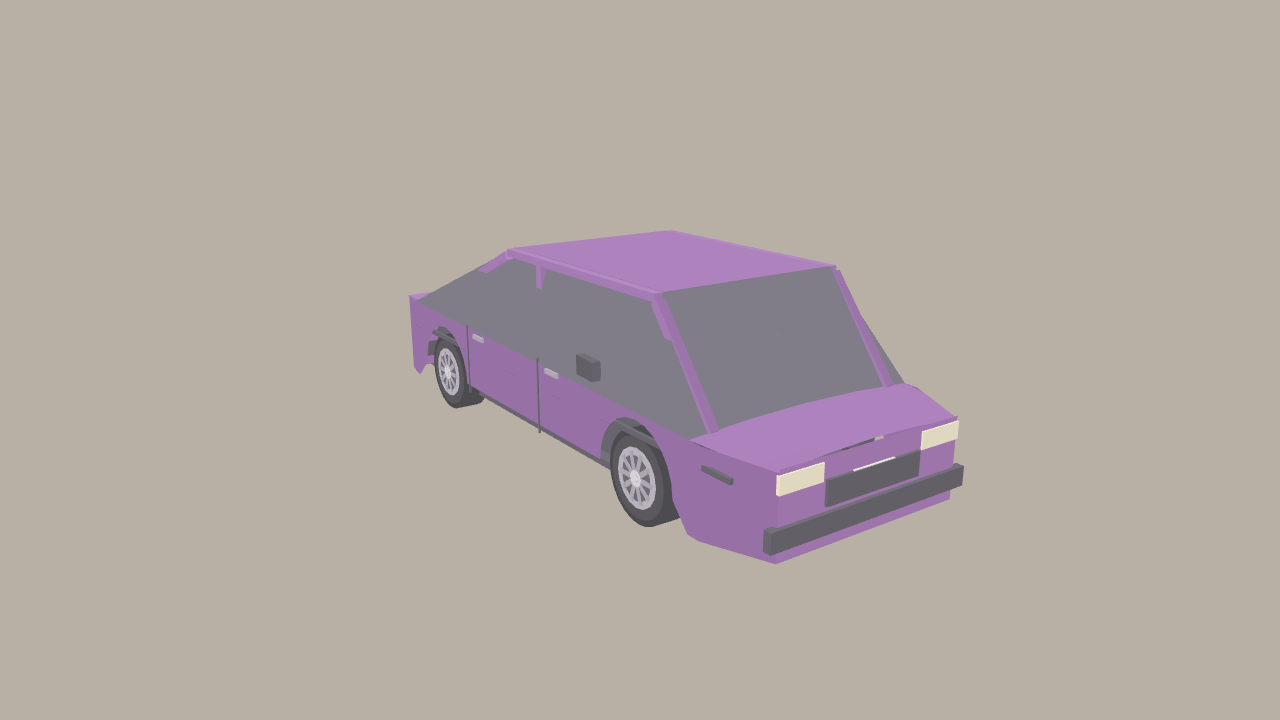
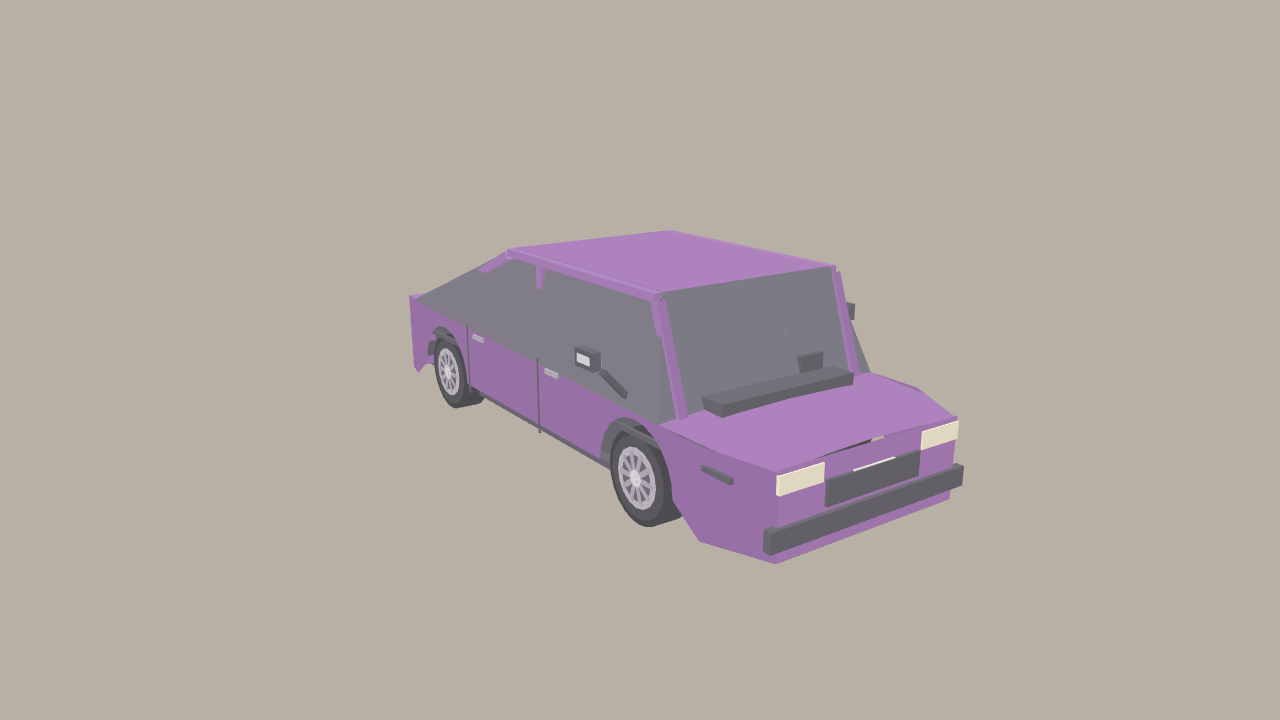
docs: record reference-aligned vehicle redesign

Changed region(s): [[0.4375, 0.3972, 0.7188, 0.6111]]

diff --git a/docs/update-12-car-3d-asset-redesign.md b/docs/update-12-car-3d-asset-redesign.md
@@ -6,47 +6,51 @@
 
 ## Summary
 
-Redesigned the Sedan and CUV exterior proportions and cockpit artwork in the
-deterministic vehicle asset generator. Post-implementation review corrections
-also close rear-side shell and glazing gaps, make the side-mirror displays face
-the driver, raise the rearview display, and separate the cockpit dials and
-indicator lamps. The simulator's body dimensions, colliders, camera anchors,
-and runtime behavior remain unchanged.
+Realigned the Sedan and CUV models to the Issue #12 reference boards in the
+deterministic vehicle asset generator. The follow-up corrects the criticized
+short Sedan hood and oversized greenhouse, redesigns visible mirror hardware
+instead of enlarging the windows, and reduces the cockpit panel so the wheel
+ring remains clear. The simulator's body dimensions, colliders, camera
+anchors, and runtime behavior remain unchanged.
 
-The issue's first reference guided the Sedan and its second guided the CUV.
-Both remain generic low-poly vehicles using the existing palettes, vertex
-colors, unlit materials, and CC BY-NC 4.0 artwork license. No third-party art,
-textures, shaders, dynamic lighting, dependencies, or live vehicle telemetry
-were added.
+The Sedan and CUV reference boards guided their respective proportions and
+four-view details. Both remain generic low-poly vehicles using the existing
+palettes, vertex colors, unlit materials, and CC BY-NC 4.0 artwork license. No
+third-party art, textures, shaders, dynamic lighting, dependencies, or live
+vehicle telemetry were added.
 
 ## Vehicle changes
 
-- **Sedan:** lengthened the rounded hood relative to its separate, shorter
-  trunk, adjusted the hood shoulder, and replaced the flat trunk surface with
-  a thin 0.03 m box lid.
+- **Sedan:** lengthened the rounded hood to 0.85 m and shortened its separate
+  trunk to 0.20 m, adjusted the hood shoulder, and retained the thin 0.03 m
+  box lid.
 - **CUV:** retained its upright hatch silhouette and extended the rear deck
   across the full 1.8 m body width to eliminate rear-side slits.
-- **Both:** aligned side glazing with the outer shell and roof, raised the rear
-  wall, and connected the upper side shell to the rear deck. Existing profile
-  dimensions and collider boxes are unchanged. Loaded-GLB regressions ray-test
-  both sides and representative front/rear glass edges, plus side and rear
-  body coverage.
+- **Both:** kept side-glass Z-spans to at most 78% of Sedan length and 80% of
+  CUV length, aligned glazing with the outer shell and roof, raised the rear
+  wall, and connected the upper side shell to the rear deck. Added side-mirror
+  stems and housings, with pale exterior reflector faces distinct from the
+  driver-facing display surfaces. Existing profile dimensions and collider
+  boxes are unchanged. Loaded-GLB regressions cover body bounds, glass edges,
+  exterior mirror faces, and fixed-eye mirror visibility.
 
 ## Static cockpit and mirrors
 
 Added named `InstrumentCluster`, `PedalSet`, `CenterConsole`, `DoorPanels`, and
-`Floor` meshes, and completed the seating in `SeatsAndInterior`. The instrument
-cluster has three static dial faces, needles, and four separated indicator
-lamps; these are artwork only and are not connected to simulator state. Their
-height and spacing put all faces and lamps in the default driver's view.
-Loaded-GLB ray/color regressions verify their visibility, while browser
-captures show the spacing and steering-wheel clearance.
+`Floor` meshes, and completed the seating in `SeatsAndInterior`. Narrowed the
+dashboard from 1.46 m to 1.10 m, reduced the instrument backing from 0.66 m to
+0.44 m, and compacted the three static dials so all 16 sampled points around
+the steering-wheel ring are unobstructed. Four separated indicator lamps,
+needles, pedals, console, seats and static controls remain artwork only, not
+simulator telemetry. Loaded-GLB regressions check the wheel ring, dial faces,
+indicator visibility and steering-wheel clearance.
 
 Reduced the rearview display surface from 0.12 x 0.05 m to 0.09 x 0.035 m and
 raised it inside the cabin. Its offset from the unchanged `MirrorRear` camera
-anchor is (-0.22, -0.025, +0.52) m. The visible side-mirror display meshes now
-face the fixed driver eye; their camera anchors and yaw remain unchanged.
-Housings sit behind the reflective planes. Render-target behavior, UVs, and
+anchor is (-0.22, -0.025, +0.52) m. The visible side-mirror display meshes
+face the fixed driver eye; separate pale exterior faces make the mirror bodies
+read in outside views. Camera anchors and yaw remain unchanged, and housings
+sit behind the driver-facing display planes. Render-target behavior, UVs, and
 the 15 FPS update cap remain unchanged. Displays are view proxies, not
 calibrated optical mirrors.
 
@@ -70,22 +74,22 @@ cockpit and glazing variants, including hidden variants.
 
 | Asset | Triangles | Nodes / meshes | GLB bytes |
 |---|---:|---:|---:|
-| Sedan | 3,226 | 39 / 27 | 232,452 |
-| CUV | 3,342 | 38 / 26 | 240,432 |
+| Sedan | 3,270 | 43 / 31 | 240,248 |
+| CUV | 3,390 | 42 / 30 | 248,460 |
 
 Both vehicles remain below the 10,000-triangle limit. Selected vehicle and
 environment payloads remain below 5 MB:
 
 | Selected pair | Uncompressed bytes |
 |---|---:|
-| Sedan + garage | 415,076 |
-| Sedan + roadside | 395,248 |
-| CUV + garage | 423,056 |
-| CUV + roadside | 403,228 |
+| Sedan + garage | 422,872 |
+| Sedan + roadside | 403,044 |
+| CUV + garage | 431,084 |
+| CUV + roadside | 411,256 |
 
 Parked lesson cars reuse only the selected vehicle's exterior and wheels,
 including static glazing but excluding cockpit/live mirror surfaces. Their
-measured geometry is 2,258 Sedan triangles and 2,374 CUV triangles; both
+measured geometry is 2,302 Sedan triangles and 2,422 CUV triangles; both
 remain below the 4,000-triangle cap.
 
 ## Real-render verification
@@ -96,15 +100,15 @@ calls stayed below the sandbox limit of 100 and lesson limit of 140.
 
 | Scene | Main calls / triangles | Mirror calls | Overhead | Composite | Full-frame calls |
 |---|---:|---|---:|---:|---:|
-| Sedan + garage | 30 / 3,530 | 32 + 18 + 18 | 37 | 1 | 136 |
-| Sedan + roadside | 26 / 3,350 | 30 + 18 + 18 | 37 | 1 | 130 |
-| CUV + garage | 30 / 3,658 | 31 + 18 + 18 | 36 | 1 | 134 |
-| CUV + roadside | 26 / 3,478 | 29 + 18 + 18 | 36 | 1 | 128 |
-| Stage 1, CUV | 67 / 8,306 | 31 + 20 + 20 | 36 | 1 | 175 |
-| Stage 2, CUV | 26 / 3,494 | 66 + 20 + 20 | 36 | 1 | 169 |
-| Stage 3, CUV | 38 / 4,554 | 49 + 19 + 28 | 56 | 1 | 191 |
-| Stage 4, CUV | 27 / 3,506 | 51 + 20 + 23 | 37 | 1 | 159 |
-| Stage 5, CUV | 29 / 3,590 | 47 + 19 + 28 | 54 | 1 | 178 |
+| Sedan + garage | 28 / 3,512 | 36 + 19 + 19 | 41 | 1 | 144 |
+| Sedan + roadside | 24 / 3,332 | 34 + 19 + 19 | 41 | 1 | 138 |
+| CUV + garage | 28 / 3,644 | 35 + 19 + 19 | 40 | 1 | 142 |
+| CUV + roadside | 24 / 3,464 | 33 + 19 + 19 | 40 | 1 | 136 |
+| Stage 1, CUV | 73 / 8,388 | 35 + 21 + 21 | 40 | 1 | 191 |
+| Stage 2, CUV | 24 / 3,480 | 78 + 21 + 21 | 40 | 1 | 185 |
+| Stage 3, CUV | 36 / 4,550 | 57 + 20 + 29 | 64 | 1 | 207 |
+| Stage 4, CUV | 25 / 3,492 | 59 + 21 + 24 | 41 | 1 | 171 |
+| Stage 5, CUV | 27 / 3,576 | 55 + 20 + 29 | 60 | 1 | 192 |
 
 The figures are sampled render calls, not FPS or worst-case performance
 measurements. The full-frame totals include the separate mirror, overhead, and
@@ -127,8 +131,8 @@ Final verification:
 - `node tools\generate-assets.mjs` — passed; SHA-256 hashes for both vehicle
   GLBs were unchanged across regeneration.
 - `npx vitest run src\world\generate-assets.test.mjs src\world\assets.test.mjs`
-  — 61 tests passed.
-- `npm test` — 512 tests passed across 31 files.
+  — 67 tests passed.
+- `npm test` — 518 tests passed across 31 files.
 - `npm run typecheck` — passed.
 - `npm run build` — passed. Vite reported the existing large-chunk warning:
   the generated assets chunk is 766.91 kB, above its 500 kB advisory threshold.

diff --git a/docs/phase-8-asset-catalog.md b/docs/phase-8-asset-catalog.md
@@ -11,15 +11,16 @@ The amethyst sedan has a low three-box body, a longer rounded hood and a
 distinct shorter angular trunk. The ivory/charcoal CUV has a taller cabin, roof
 rails, wheel-arch cladding, an upright hatch and vertical rear lamps. Both
 include handles, door seams, grilles, bumpers, static lamp colors, mirror
-housings and independently animated alloy wheels. Designs are generic and
-unbranded. The side shell follows the glazing and roof boundaries down to the
-rear deck; the Sedan has a volumetric 0.03 m trunk lid, and the CUV rear deck
-spans the full body width to close rear-side gaps.
+housings, stems, pale exterior reflector faces, and independently animated
+alloy wheels. Designs are generic and unbranded. The side shell follows the
+glazing and roof boundaries down to the rear deck; the Sedan has a volumetric
+0.03 m trunk lid, and the CUV rear deck spans the full body width to close
+rear-side gaps.
 
 | Asset | Width x height x length (m) | Stored triangles | Nodes / meshes | GLB bytes |
 |---|---|---:|---:|---:|
-| [Sedan](../public/assets/vehicles/sedan.glb) | 1.8 x 1.45 x 4.6 | 3,226 | 39 / 27 | 232,452 |
-| [CUV](../public/assets/vehicles/cuv.glb) | 1.8 x 1.62 x 4.35 | 3,342 | 38 / 26 | 240,432 |
+| [Sedan](../public/assets/vehicles/sedan.glb) | 1.8 x 1.45 x 4.6 | 3,270 | 43 / 31 | 240,248 |
+| [CUV](../public/assets/vehicles/cuv.glb) | 1.8 x 1.62 x 4.35 | 3,390 | 42 / 30 | 248,460 |
 
 Counts include the cockpit, mirror surfaces and both stored glazing variants,
 even when one is hidden. Both are below the 10,000-triangle vehicle gate.
@@ -38,11 +39,13 @@ even when one is hidden. Both are below the 10,000-triangle vehicle gate.
 
 ### Cockpits and mirrors
 
-Both cockpits contain a dashboard, three static instrument dials/needles and
-four separated indicator lamps, pedals, a center console/storage, door panels,
-floor, roof lining, front seats/headrests and a rear seat. The dials and all
-four lamps are visible from the fixed driver eye; these are static artwork,
-not simulator telemetry. Application camera controls and default poses are
+Both cockpits contain a narrowed 1.1 m dashboard and compact instrument
+backing, three static instrument dials/needles and four separated indicator
+lamps, pedals, a center console/storage, door panels, floor, roof lining, front
+seats/headrests and a rear seat. The dial cluster sits above the wheel rim; all
+16 sampled points around the steering-wheel ring, all three dials and all four
+lamps remain visible from the fixed driver eye. These are static artwork, not
+simulator telemetry. Application camera controls and default poses are
 unchanged.
 Driver-view asset captures omit the HUD overhead inset so all three dials
 remain visible; the separate overhead captures are unchanged.
@@ -68,8 +71,10 @@ Mirror anchor yaw remains rear 180 degrees, left +105 degrees and right
 -105 degrees. The smaller 0.09 x 0.035 m rearview **display mesh** is placed
 inside the cabin, offset from its unchanged virtual camera by
 (-0.22, -0.025, +0.52) m. It is a view proxy, not a newly calibrated optical
-mirror. Side display meshes face the driver while their virtual camera anchors
-and yaw remain unchanged; housings sit behind the reflective planes.
+mirror. Side displays face the driver while their virtual camera anchors and
+yaw remain unchanged; separate pale exterior reflector faces make the side
+mirrors legible from outside, and housings remain behind the driver-facing
+display planes.
 Planar mirror surfaces have UVs and updates retain the existing 15 FPS cap.
 Loaded-mesh 9 x 9 ray grids verify both side faces are unobstructed from each
 fixed eye; separate projected-width and angle checks reject edge-on displays.
@@ -118,8 +123,8 @@ driving surface; they do not introduce traversable solid-looking buildings.
 Every existing lesson obstacle now has a visible stationary car, reusing the
 selected vehicle's exterior and wheels without its cockpit or live mirror
 surfaces. Each owns cloned geometry/materials and is fitted to the exact
-collider box before applying its yaw. Stationary geometry is 2,258 triangles
-for Sedan and 2,374 for CUV, below the 4,000-triangle gate.
+collider box before applying its yaw. Stationary geometry is 2,302 triangles
+for Sedan and 2,422 for CUV, below the 4,000-triangle gate.
 
 ![Stage 1 parked CUV obstacles beside the unchanged lesson target](images/phase-8/lesson-parked-cars.png)
 
@@ -139,10 +144,10 @@ All GLBs are self-contained and use no external image/buffer resources.
 
 | Selected pair | Uncompressed bytes |
 |---|---:|
-| Sedan + garage | 415,076 |
-| Sedan + roadside | 395,248 |
-| CUV + garage | 423,056 |
-| CUV + roadside | 403,228 |
+| Sedan + garage | 422,872 |
+| Sedan + roadside | 403,044 |
+| CUV + garage | 431,084 |
+| CUV + roadside | 411,256 |
 
 All pairs are below the 5,000,000-byte gate.
 
@@ -153,15 +158,15 @@ The table reports an auxiliary-update frame at 80 ms:
 
 | Scene | Main calls / triangles | Three mirror calls | Overhead calls | Composite calls | Full-frame calls |
 |---|---:|---|---:|---:|---:|
-| Sedan + garage | 30 / 3,530 | 32 + 18 + 18 | 37 | 1 | 136 |
-| Sedan + roadside | 26 / 3,350 | 30 + 18 + 18 | 37 | 1 | 130 |
-| CUV + garage | 30 / 3,658 | 31 + 18 + 18 | 36 | 1 | 134 |
-| CUV + roadside | 26 / 3,478 | 29 + 18 + 18 | 36 | 1 | 128 |
-| Stage 1, CUV | 67 / 8,306 | 31 + 20 + 20 | 36 | 1 | 175 |
-| Stage 2, CUV | 26 / 3,494 | 66 + 20 + 20 | 36 | 1 | 169 |
-| Stage 3, CUV | 38 / 4,554 | 49 + 19 + 28 | 56 | 1 | 191 |
-| Stage 4, CUV | 27 / 3,506 | 51 + 20 + 23 | 37 | 1 | 159 |
-| Stage 5, CUV | 29 / 3,590 | 47 + 19 + 28 | 54 | 1 | 178 |
+| Sedan + garage | 28 / 3,512 | 36 + 19 + 19 | 41 | 1 | 144 |
+| Sedan + roadside | 24 / 3,332 | 34 + 19 + 19 | 41 | 1 | 138 |
+| CUV + garage | 28 / 3,644 | 35 + 19 + 19 | 40 | 1 | 142 |
+| CUV + roadside | 24 / 3,464 | 33 + 19 + 19 | 40 | 1 | 136 |
+| Stage 1, CUV | 73 / 8,388 | 35 + 21 + 21 | 40 | 1 | 191 |
+| Stage 2, CUV | 24 / 3,480 | 78 + 21 + 21 | 40 | 1 | 185 |
+| Stage 3, CUV | 36 / 4,550 | 57 + 20 + 29 | 64 | 1 | 207 |
+| Stage 4, CUV | 25 / 3,492 | 59 + 21 + 24 | 41 | 1 | 171 |
+| Stage 5, CUV | 27 / 3,576 | 55 + 20 + 29 | 60 | 1 | 192 |
 
 The gates are <=100 **main-pass** calls in sandbox and <=140 in lessons,
 not limits on the sum of all camera passes. These sampled poses pass; their
@@ -185,7 +190,7 @@ part of the production app. See [asset pipeline](asset-pipeline.md).
 
 ## Verification limits
 
-For the Issue #12 redesign, 512 tests across 31 files, 61 focused
+For the Issue #12 redesign, 518 tests across 31 files, 67 focused
 generator/loader tests, typecheck, production build and all 10 Chromium Phase 8
 asset-render cases passed, including the five parked-lesson scenes. The
 focused selection overlaps the full suite. Vite reports a 766.91 kB generated
